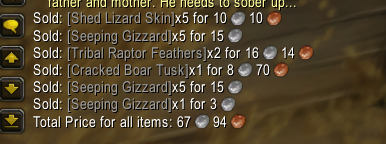
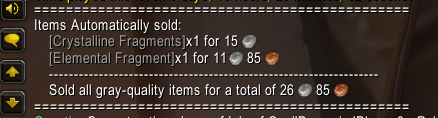
Added auto-sell and auto-repair options

diff --git a/README.md b/README.md
@@ -2,8 +2,40 @@
 
 *Formerly SellGrey by Paul Davis Tutherow Jr, project taken over by Serrol*
 
-Adds a button to the Merchant frame that sells gray items
+Adds a button to the Merchant frame that sells gray items; includes options to enable auto-sell and auto-repair.
 
 ## Options
 
-This addon does not have any options, actions, or features (hidden or otherwise) beyond those specified in the description above.
+### Auto-Sell
+
+Instead of having to click the button, the addon will automatically sell every gray item in your inventory whenever you open a Merchant's window. Don't worry: the button will still be there just in case you want it.
+
+### Auto-Repair
+
+Whenever you visit a merchant that can repair your gear, having this option selected will automatically click on the repair button for you when the merchant's window is opened.
+
+**Repair using guild bank funds (if available)**
+
+If your guild allows you to repair using the money in the guild's bank, the addon will attempt to use those funds first. If there aren't enough funds for you to repair, it will use your personal money for any remaining amount.
+
+### Show total value of gray items in bags
+
+Calculates the total vendor value of all gray items in your bags, and then displays this price at the top of your primary bag. This updates whenever your bag does (which includes looting/selling items).
+
+## Slash Commands
+
+There are three slash commands that can be used to interact with this addon:
+
+```
+/sellgrayitems
+/sellgrays
+/sgi
+```
+
+With those slash commands, there are a few arguments that can be used for certain functions:
+
+```
+/sellgrayitems - Opens options page
+/sellgrayitems h - Lists slash commands and available arguments
+/sellgrayitems v - Displays version number in your chat window
+```
